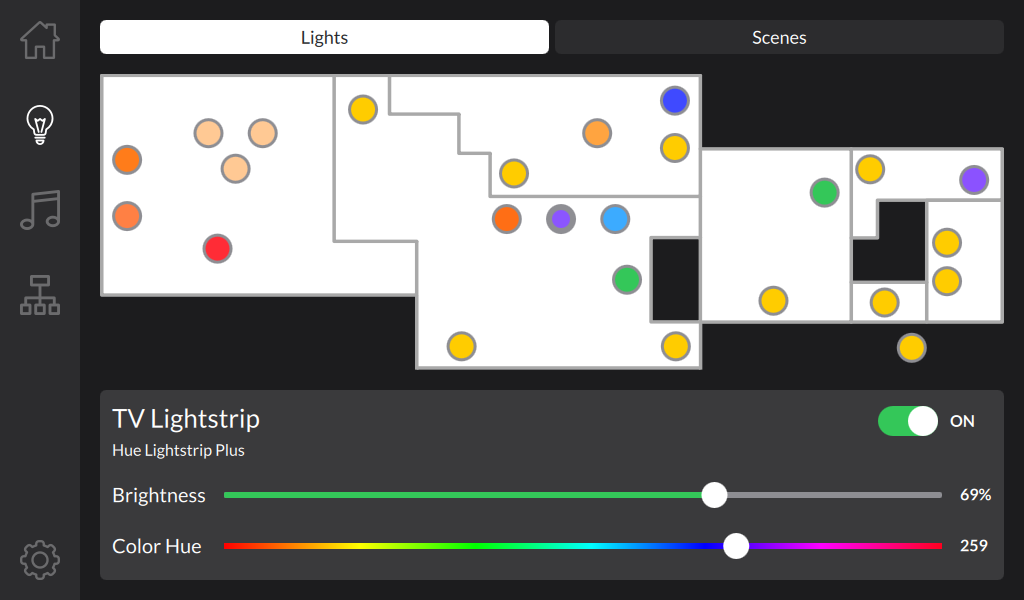
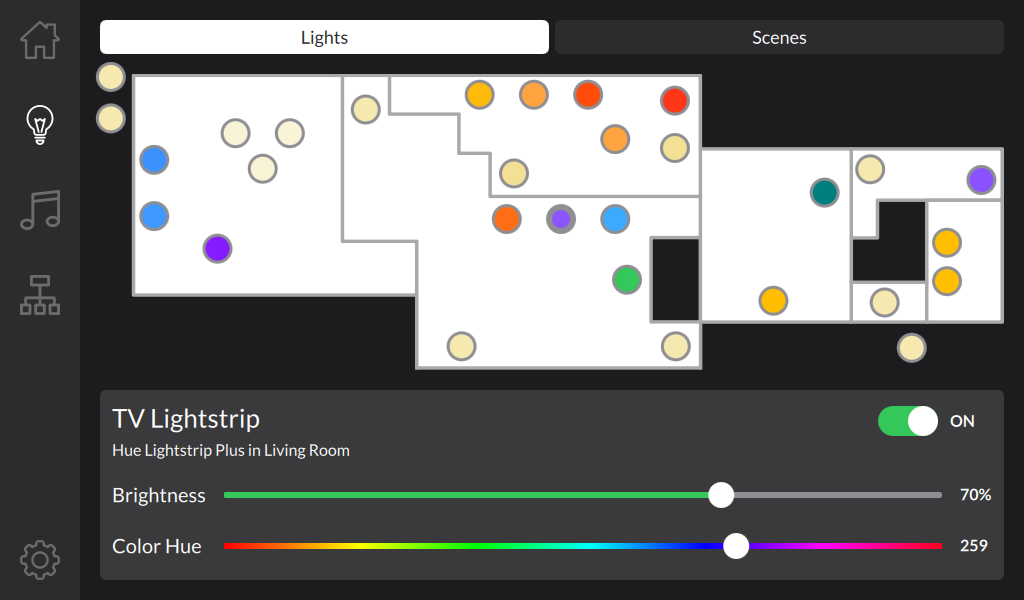
Consume and display Hue device room information.

diff --git a/qml/TileHueDevice.qml b/qml/TileHueDevice.qml
@@ -29,6 +29,15 @@ Tile {
         text: root.device ? root.device[ "productName" ] : ""
     }
 
+    Text {
+        id: roomName
+        anchors.verticalCenter: productName.verticalCenter
+        anchors.left: productName.right
+        font.pixelSize: productName.font.pixelSize
+        color: productName.color
+        text: ( root.device && root.device[ "room" ] ) ? ( qsTr( " in " ) + root.device[ "room" ] ) : ""
+    }
+
     VCSwitch {
         id: powerSwitch
         anchors.top: parent.top

diff --git a/src/vchue.cpp b/src/vchue.cpp
@@ -1,3 +1,5 @@
+#include <QJsonArray>
+
 #include "vchue.h"
 #include "networkinterface.h"
 /*--------------------------------------------------------------------------------------------------------------------*/
@@ -23,6 +25,11 @@ VCHue::VCHue( const QString & Name, QObject * pParent ) :
     connect( this, &VCHue::bridgeIPAddressChanged, this, &VCHue::updateBaseURL );
     connect( this, &VCHue::bridgeUsernameChanged, this, &VCHue::updateBaseURL );
 
+    // Configure a timer for periodically refreshing groups information.
+    m_GroupsRefreshTimer.setInterval( 5 * 60 * 1000 );
+    m_GroupsRefreshTimer.setSingleShot( false );
+    connect( &m_GroupsRefreshTimer, &QTimer::timeout, this, &VCHue::refreshGroups );
+
     // Look for the Bridge.
     NetworkInterface::instance()->browseZeroConf( HUE_SERVICE_TYPE );
 }
@@ -46,7 +53,7 @@ int VCHue::onDevicesCount() const
 
 void VCHue::refresh()
 {
-    NetworkInterface::instance()->sendJSONRequest( QUrl( m_BaseURL ), this );
+    NetworkInterface::instance()->sendJSONRequest( m_LightsURL, this );
 }
 /*--------------------------------------------------------------------------------------------------------------------*/
 
@@ -55,7 +62,7 @@ void VCHue::commandDeviceState( const int iID, const QJsonObject & Parameters )
     HueDevice * pDevice = m_DeviceTable.value( iID, nullptr );
     if ( nullptr != pDevice )
     {
-        QUrl URL( QString( "%1/%2/state" ).arg( m_BaseURL ).arg( iID ) );
+        QUrl URL( QString( "%1/%2/state" ).arg( m_LightsURL.toString() ).arg( iID ) );
         NetworkInterface::instance()->sendJSONRequest( URL,
                                                        pDevice,
                                                        QNetworkAccessManager::PutOperation,
@@ -111,48 +118,84 @@ void VCHue::handleNetworkReply( int iStatusCode, QObject * pSender, const QJsonD
                     int iID = Key.toInt( &bOk );
                     if ( bOk )
                     {
-                        QJsonObject DeviceObject = ResponseObject.value( Key ).toObject();
-                        if ( !DeviceObject.isEmpty() )
+                        QJsonObject ItemObject = ResponseObject.value( Key ).toObject();
+                        if ( !ItemObject.isEmpty() )
                         {
-                            // Is there already a record of this device?
-                            HueDevice * pDevice = m_DeviceTable.value( iID, nullptr );
-                            if ( nullptr == pDevice )
+                            // Is this device information?
+                            if ( !ItemObject.contains( "lights" ) )
                             {
-                                // Inspect the device type to determine the correct object type.
-                                QString Type = DeviceObject.value( "type" ).toString().toLower();
-                                if ( "dimmable light" == Type )
+                                // Device information, is there already a record of this device?
+                                HueDevice * pDevice = m_DeviceTable.value( iID, nullptr );
+                                if ( nullptr == pDevice )
                                 {
-                                    pDevice = new HueLight( iID, this );
-                                }
-                                else if ( "color temperature light" == Type )
-                                {
-                                    pDevice = new HueAmbianceLight( iID, this );
-                                }
-                                else if ( Type.endsWith( "color light" ) )
-                                {
-                                    pDevice = new HueColorLight( iID, this );
-                                }
-                                else
-                                {
-                                    pDevice = new HueDevice( iID, this );
+                                    // Inspect the device type to determine the correct object type.
+                                    QString Type = ItemObject.value( "type" ).toString().toLower();
+                                    if ( "dimmable light" == Type )
+                                    {
+                                        pDevice = new HueLight( iID, this );
+                                    }
+                                    else if ( "color temperature light" == Type )
+                                    {
+                                        pDevice = new HueAmbianceLight( iID, this );
+                                    }
+                                    else if ( Type.endsWith( "color light" ) )
+                                    {
+                                        pDevice = new HueColorLight( iID, this );
+                                    }
+                                    else
+                                    {
+                                        pDevice = new HueDevice( iID, this );
+                                    }
+
+                                    // Update the number of devices powered on when it changes.
+                                    connect( pDevice, &HueDevice::isOnChanged, this, &VCHue::onDevicesCountChanged );
+
+                                    // Record the device.
+                                    m_DeviceTable.insert( iID, pDevice );
+                                    m_Devices.append( pDevice );
+                                    std::sort( m_Devices.begin(), m_Devices.end(), sortDevice );
+                                    emit devicesChanged();
                                 }
 
-                                // Update the number of devices powered on when it changes.
-                                connect( pDevice, &HueDevice::isOnChanged, this, &VCHue::onDevicesCountChanged );
-
-                                // Record the device.
-                                m_DeviceTable.insert( iID, pDevice );
-                                m_Devices.append( pDevice );
-                                std::sort( m_Devices.begin(), m_Devices.end(), sortDevice );
-                                emit devicesChanged();
+                                // Dispatch device and state information to the device.
+                                pDevice->handleResponse( QJsonDocument( ItemObject ) );
                             }
-
-                            // Dispatch device and state information to the device.
-                            pDevice->handleResponse( QJsonDocument( DeviceObject ) );
+                            else
+                            {
+                                // Group information.
+                                QString Name = ItemObject.value( "name" ).toString();
+                                QString Type = ItemObject.value( "type" ).toString();
+                                if ( ( !Name.isEmpty() ) && ( "room" == Type.toLower() ) )
+                                {
+                                    const QJsonArray Lights = ItemObject.value( "lights" ).toArray();
+                                    for ( const auto & Light : Lights )
+                                    {
+                                        bool bOk = false;
+                                        int iLightID = Light.toString().toInt( &bOk );
+                                        if ( bOk )
+                                        {
+                                            HueDevice * pDevice = m_DeviceTable.value( iLightID, nullptr );
+                                            if ( nullptr != pDevice )
+                                            {
+                                                // Tell the device which room it's in.
+                                                pDevice->setRoom( Name );
+                                            }
+                                            else
+                                            {
+                                                // No record of the device, try again next time.
+                                            }
+                                        }
+                                        else
+                                        {
+                                            qDebug() << "Got invalid light ID in groups response from Hue Bridge";
+                                        }
+                                    }
+                                }
+                            }
                         }
                         else
                         {
-                            qDebug() << "Got empty or invalid device object in query response from Hue Bridge at key: "
+                            qDebug() << "Got empty or invalid item object in query response from Hue Bridge at key: "
                                      << Key;
                         }
                     }
@@ -200,11 +243,21 @@ void VCHue::updateBaseURL()
 {
     if ( ( !m_BridgeIPAddress.isEmpty() ) && ( !m_BridgeUsername.isEmpty() ) )
     {
-        m_BaseURL = QString( "http://%1/api/%2/lights" ).arg( m_BridgeIPAddress, m_BridgeUsername );
+        QString BaseURL = QString( "http://%1/api/%2" ).arg( m_BridgeIPAddress, m_BridgeUsername );
+        m_LightsURL = QUrl( QString( "%1/lights" ).arg( BaseURL ) );
+        m_GroupsURL = QUrl( QString( "%1/groups" ).arg( BaseURL ) );
 
-        // With the IP address known, start the update timer and refesh immediately.
+        // With the IP address known, start the update timers and refesh immediately.
         m_UpdateTimer.start();
+        m_GroupsRefreshTimer.start();
         refresh();
+        refreshGroups();
     }
+}
+/*--------------------------------------------------------------------------------------------------------------------*/
+
+void VCHue::refreshGroups()
+{
+    NetworkInterface::instance()->sendJSONRequest( m_GroupsURL, this );
 }
 /*--------------------------------------------------------------------------------------------------------------------*/

diff --git a/src/huedevice.h b/src/huedevice.h
@@ -7,12 +7,13 @@
 class HueDevice : public QObject
 {
     Q_OBJECT
-    Q_PROPERTY( int id               READ id           NOTIFY idChanged )
-    Q_PROPERTY( QString name         READ name         NOTIFY nameChanged )
-    Q_PROPERTY( QString type         READ type         NOTIFY typeChanged )
-    Q_PROPERTY( QString productName  READ productName  NOTIFY productNameChanged )
-    Q_PROPERTY( bool isReachable     READ isReachable  NOTIFY isReachableChanged )
-    Q_PROPERTY( bool isOn            READ isOn         NOTIFY isOnChanged )
+    Q_PROPERTY( int id               READ id                          NOTIFY idChanged )
+    Q_PROPERTY( QString name         READ name                        NOTIFY nameChanged )
+    Q_PROPERTY( QString type         READ type                        NOTIFY typeChanged )
+    Q_PROPERTY( QString productName  READ productName                 NOTIFY productNameChanged )
+    Q_PROPERTY( bool isReachable     READ isReachable                 NOTIFY isReachableChanged )
+    Q_PROPERTY( bool isOn            READ isOn                        NOTIFY isOnChanged )
+    Q_PROPERTY( QString room         READ room         WRITE setRoom  NOTIFY roomChanged )
 
 public:
     explicit HueDevice( int iID, QObject * pParent = nullptr );
@@ -23,6 +24,8 @@ public:
     const QString & productName() const { return m_ProductName; }
     bool isReachable() const { return m_bIsReachable; }
     bool isOn() const { return m_bIsOn; }
+    const QString & room() const { return m_Room; }
+    void setRoom( const QString & Value );
 
 signals:
     void idChanged();
@@ -31,6 +34,7 @@ signals:
     void productNameChanged();
     void isReachableChanged();
     void isOnChanged();
+    void roomChanged();
 
 public slots:
     void commandPower( bool bOn );
@@ -43,6 +47,7 @@ protected:
     QString m_ProductName;
     bool m_bIsReachable;
     bool m_bIsOn;
+    QString m_Room;
 
     virtual void handleStateData( const QJsonObject & State );
 

diff --git a/src/huedevice.cpp b/src/huedevice.cpp
@@ -14,6 +14,16 @@ HueDevice::HueDevice( int iID, QObject * pParent ) :
 }
 /*--------------------------------------------------------------------------------------------------------------------*/
 
+void HueDevice::setRoom( const QString & Value )
+{
+    if ( m_Room != Value )
+    {
+        m_Room = Value;
+        emit roomChanged();
+    }
+}
+/*--------------------------------------------------------------------------------------------------------------------*/
+
 void HueDevice::commandPower( const bool bOn )
 {
     VCHub::instance()->hue()->commandDeviceState( m_iID, QJsonObject { { "on", bOn } } );

diff --git a/src/vchue.h b/src/vchue.h
@@ -39,6 +39,7 @@ private slots:
     void handleZeroConfServiceFound( const QString & ServiceType, const QString & IPAddress );
     void handleNetworkReply( int iStatusCode, QObject * pSender, const QJsonDocument & Body );
     void updateBaseURL();
+    void refreshGroups();
 
 private:
     QList<HueDevice *> m_Devices;
@@ -46,8 +47,10 @@ private:
     QString m_BridgeIPAddress;
     QString m_BridgeUsername;
     QVariantMap m_MapModel;
+    QTimer m_GroupsRefreshTimer;
 
-    QString m_BaseURL;
+    QUrl m_LightsURL;
+    QUrl m_GroupsURL;
 
     Q_DISABLE_COPY_MOVE( VCHue )
 };
